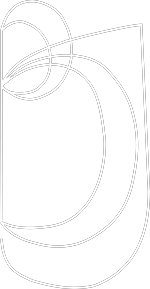
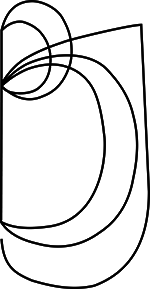
white background

Changed region(s): [[0.0, 0.0, 1.0, 1.0], [0.56, 0.2803, 0.72, 0.7163], [0.72, 0.9343, 0.8, 0.9654]]

diff --git a/style intro.css b/style intro.css
@@ -2,8 +2,8 @@ body {
 	font-family: 'arial', sans-serif;
   height: 100%;
   width: 100%;
-  color: white;
-  background-color: #0e000f;
+  color: black;
+  background-color: white;
 
   -webkit-font-smoothing: antialiased;
 -moz-font-smoothing: antialiased;
@@ -197,7 +197,7 @@ img.portfolio-item {
   height: 24.5%;
   right: 0%;
   cursor: s-resize !important;
-  border-bottom: 1px dotted white;
+  border-bottom: 1px dotted black;
   text-align: left;
   overflow-x: scroll;
   overflow-y: hidden;
@@ -209,7 +209,7 @@ img.portfolio-item {
   height: 24.5%;
   left: 0%;
   cursor: n-resize !important;
-  border-top: 1px dotted white;
+  border-top: 1px dotted black;
   text-align: left;
   overflow-x: scroll;
   overflow-y: hidden;
@@ -220,7 +220,7 @@ img.portfolio-item {
   bottom: 24.5%;
   width: 24.5%;
   cursor: e-resize !important;
-  border-right: 1px dotted white;
+  border-right: 1px dotted black;
   text-align: center;
   overflow: scroll;
 }
@@ -230,7 +230,7 @@ img.portfolio-item {
   bottom: 0%;
   width: 24.5%;
   cursor: w-resize !important;
-  border-left: 1px dotted white;
+  border-left: 1px dotted black;
   text-align: center;
   overflow: scroll;
 }
@@ -240,7 +240,7 @@ img.portfolio-item {
   color: #0e000f;
   font-family: 'Nobile', sans-serif;
   font-size: .8vw;
-  background-color: white;
+  background-color: lightgrey;
   padding: 5px;
   padding-bottom: 1px;
   z-index: 2;
